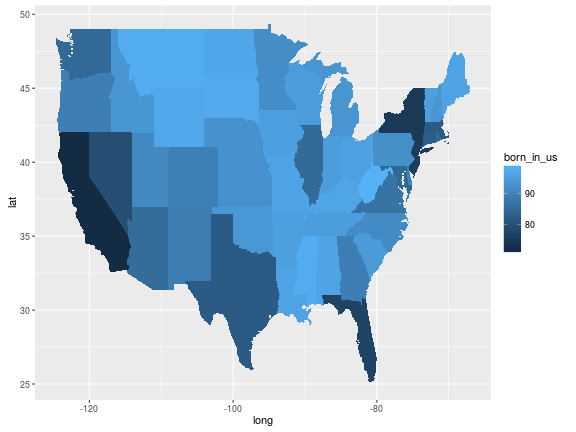
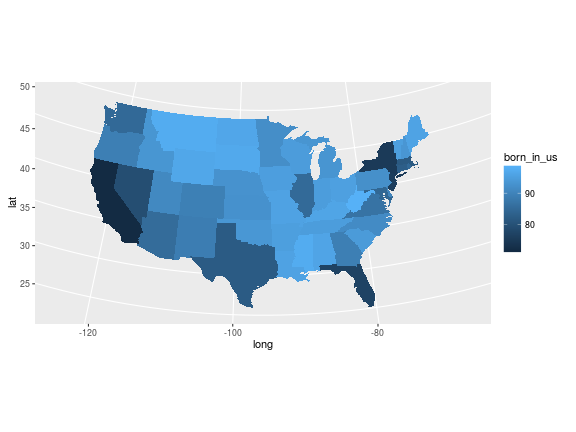
maps

diff --git a/_posts/2016-01-26-ggplot-statemaps.md b/_posts/2016-01-26-ggplot-statemaps.md
@@ -2,7 +2,7 @@
 layout: post
 title: "State Maps with ggplot2"
 categories: [R]
-tags: [R, ggplot2 ]
+tags: [R, ggplot2]
 excerpt: #
 modified: 2016-01-30
 comments: true
@@ -10,10 +10,6 @@ image:
   feature: current-feature.jpg
 ---
 
-
-
-
-<img src="/figure/source/2016-01-26-ggplot-statemaps/unnamed-chunk-1-1.png" title="plot of chunk unnamed-chunk-1" alt="plot of chunk unnamed-chunk-1" style="display: block; margin: auto;" />
 
 
 # Basic Syntax
@@ -29,20 +25,7 @@ census_data <- census_data %>% rename(born_in_us=HC03_VC132)
 library(ggplot2)
 # Load US State Coordinates
 state_coords <- map_data("state")
-{% endhighlight %}
 
-
-
-{% highlight text %}
-
- # ATTENTION: maps v3.0 has an updated 'world' map.        #
- # Many country borders and names have changed since 1990. #
- # Type '?world' or 'news(package="maps")'. See README_v3. #
-{% endhighlight %}
-
-
-
-{% highlight r %}
 # Join Census data with map data
 state_data <- left_join(state_coords,
                        census_data,
@@ -57,7 +40,7 @@ map <-
 map
 {% endhighlight %}
 
-<img src="/figure/source/2016-01-26-ggplot-statemaps/unnamed-chunk-2-1.png" title="plot of chunk unnamed-chunk-2" alt="plot of chunk unnamed-chunk-2" style="display: block; margin: auto;" />
+<img src="/figure/source/2016-01-26-ggplot-statemaps/unnamed-chunk-1-1.png" title="plot of chunk unnamed-chunk-1" alt="plot of chunk unnamed-chunk-1" style="display: block; margin: auto;" />
 
 
 
@@ -68,13 +51,7 @@ Requires installation of <b>{mapproj}</b> package
 map+coord_map(project='conic',lat0=30)
 {% endhighlight %}
 
-
-
-{% highlight text %}
-Error in loadNamespace(name): there is no package called 'mapproj'
-{% endhighlight %}
-
-<img src="/figure/source/2016-01-26-ggplot-statemaps/unnamed-chunk-3-1.png" title="plot of chunk unnamed-chunk-3" alt="plot of chunk unnamed-chunk-3" style="display: block; margin: auto;" />
+<img src="/figure/source/2016-01-26-ggplot-statemaps/unnamed-chunk-2-1.png" title="plot of chunk unnamed-chunk-2" alt="plot of chunk unnamed-chunk-2" style="display: block; margin: auto;" />
 
 
 
@@ -111,13 +88,7 @@ map <-
 map  
 {% endhighlight %}
 
-
-
-{% highlight text %}
-Error in loadNamespace(name): there is no package called 'mapproj'
-{% endhighlight %}
-
-<img src="/figure/source/2016-01-26-ggplot-statemaps/unnamed-chunk-4-1.png" title="plot of chunk unnamed-chunk-4" alt="plot of chunk unnamed-chunk-4" style="display: block; margin: auto;" />
+<img src="/figure/source/2016-01-26-ggplot-statemaps/unnamed-chunk-3-1.png" title="plot of chunk unnamed-chunk-3" alt="plot of chunk unnamed-chunk-3" style="display: block; margin: auto;" />
 
 # More Resources
 - [Source as RMarkdown](https://github.com/rweyant/bertplot/blob/master/R/tutorials/ggplot-statemaps/ggplot-statemaps.Rmd)

diff --git a/_posts/2016-01-26-googleflights-api.md b/_posts/2016-01-26-googleflights-api.md
@@ -50,5 +50,3 @@ The actual API only has one method, so there's not much else to say about workin
 - [Package Source on Github](https://github.com/rweyant/googleflights)
 - [QPX Express API Documentation](https://developers.google.com/qpx-express/v1/)
 
-
-<img src="/figure/source/2016-01-26-googleflights-api/unnamed-chunk-4-1.png" title="plot of chunk unnamed-chunk-4" alt="plot of chunk unnamed-chunk-4" style="display: block; margin: auto;" />
